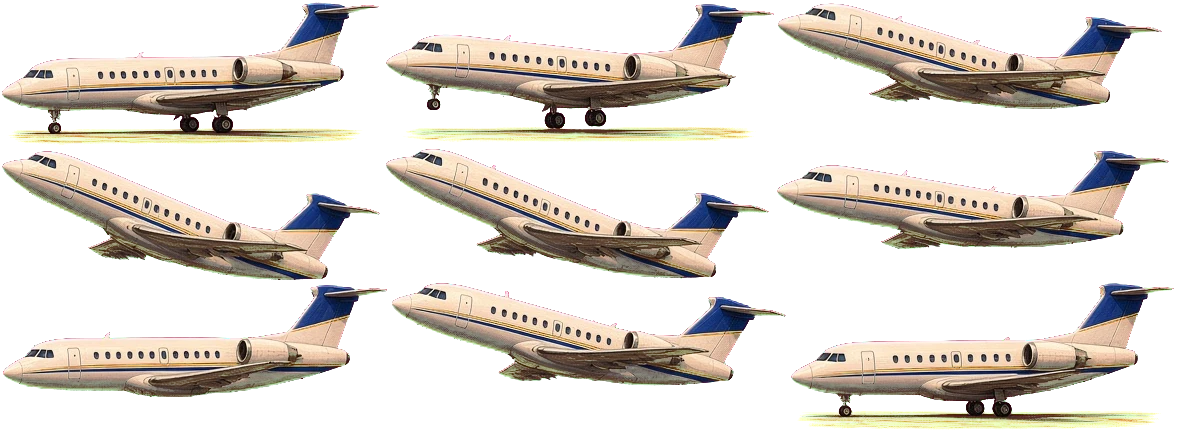
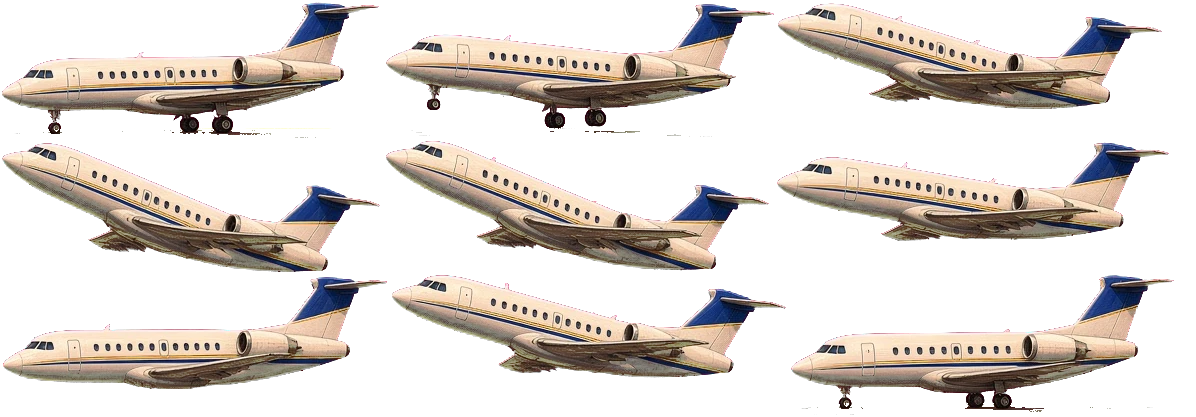
Flight animation fixes: plane lawn patch and green fringe, seamless scenery, smooth plane height, map layout (157 flight3)

diff --git a/engine/flight-art.js b/engine/flight-art.js
@@ -28,14 +28,34 @@ const fsEase=u=>{ u=Math.max(0,Math.min(1,u)); return u*u*(3-2*u); };
 function fsSmooth(on) { const was=[gfx.imageSmoothingEnabled,gfx.imageSmoothingQuality]; gfx.imageSmoothingEnabled=on; if(on) gfx.imageSmoothingQuality='high'; return was; }
 function fsRestore(was) { gfx.imageSmoothingEnabled=was[0]; gfx.imageSmoothingQuality=was[1]; }
 
-// A strip at height h, tiled sideways. Tile n covers world x [n*dw, (n+1)*dw]; odd tiles are mirrored. off = world x at the screen's left edge.
-function fsStrip(img,y,h,off) {
-  const dw=img.naturalWidth*h/img.naturalHeight; if(dw<8) return;
+// A strip at height h, tiled sideways. Tile n covers world x [n*dw, (n+1)*dw]. off = world x at the screen's left edge.
+// Skyline and foreground strips repeat un-flipped (157: flipped copies showed mirrored trees and backwards lettering) with the
+// join melted by fsSeamless; ground strips keep the mirrored repeat, because their runway runs on a slant and only a mirror joins it.
+function fsSeamless(img) {
+  let c=FLIGHT_ART.cache.get(img);
+  if(c) return c;
+  const w=img.naturalWidth,h=img.naturalHeight,ov=Math.round(w*.16),nw=w-ov;
+  c=document.createElement('canvas'); c.width=nw; c.height=h; const g=c.getContext('2d');
+  // The tail of the picture fades out while its head fades in over the same columns, so the end flows into the start.
+  const layer=(sx,fromOpaque)=>{
+    const t=document.createElement('canvas'); t.width=ov; t.height=h; const q=t.getContext('2d');
+    q.drawImage(img,sx,0,ov,h,0,0,ov,h); q.globalCompositeOperation='destination-in';
+    const gr=q.createLinearGradient(0,0,ov,0); gr.addColorStop(0,fromOpaque?'#000':'rgba(0,0,0,0)'); gr.addColorStop(1,fromOpaque?'rgba(0,0,0,0)':'#000');
+    q.fillStyle=gr; q.fillRect(0,0,ov,h); return t;
+  };
+  g.drawImage(img,ov,0,nw-ov,h,ov,0,nw-ov,h);
+  g.drawImage(layer(nw,true),0,0);
+  g.globalCompositeOperation='lighter'; g.drawImage(layer(0,false),0,0);
+  FLIGHT_ART.cache.set(img,c); return c;
+}
+function fsStrip(img,y,h,off,mirror) {
+  const src=mirror?img:fsSeamless(img),sw=mirror?img.naturalWidth:src.width,sh=mirror?img.naturalHeight:src.height;
+  const dw=sw*h/sh; if(dw<8) return;
   for(let n=Math.floor(off/dw);;n++) {
     const X=Math.floor(n*dw-off); if(X>=W) break;
     const w=Math.ceil(dw)+1;
-    if(((n%2)+2)%2) { gfx.save(); gfx.translate(X+w,0); gfx.scale(-1,1); gfx.drawImage(img,0,y,w,h); gfx.restore(); }
-    else gfx.drawImage(img,X,y,w,h);
+    if(mirror&&((n%2)+2)%2) { gfx.save(); gfx.translate(X+w,0); gfx.scale(-1,1); gfx.drawImage(src,0,y,w,h); gfx.restore(); }
+    else gfx.drawImage(src,X,y,w,h);
   }
 }
 // A sky square covering the top region [0,regionH]: the sun is moved to targetY, as far as the picture's edges allow.
@@ -101,6 +121,11 @@ function fsPlane(i,px,py,s,facing,ang) {
   gfx.drawImage(FLIGHT_ART.imgs.plane,P.x,P.y,P.w,P.h,-P.ax,-P.ay,P.w,P.h);
   gfx.restore();
 }
+// Each pose has its own wheel-bottom height, so a plain swap of poses made the plane hop. The height eases from pose to pose instead.
+function fsBot(F,target,dtf) {
+  if(F.botS==null||F.t<.05) return target;
+  return F.botS+(target-F.botS)*(1-Math.pow(.88,dtf));
+}
 function flightPaintedSide(F,time) {
   if(!flightArtReady()) return false;
   const M=FLIGHT_ART_META,I=FLIGHT_ART.imgs;
@@ -114,7 +139,8 @@ function flightPaintedSide(F,time) {
   // Speed: the scenery slides under the plane while it rolls, then slows as it climbs away (the old scroll rule, in screen units).
   const speed=land?(t<2.6?60:Math.max(0,60*(1-(t-2.6)/1.4))):Math.min(70,t*40);
   const S=Math.max(2,Math.min(5,Math.round(W/140)));
-  const scroll=(F.scroll=(F.scroll||0)+speed*.016*(F.last!=null?Math.min(3,(time-F.last)*60):1)); F.last=time;
+  const dtf=F.last!=null?Math.min(3,(time-F.last)*60):1;
+  const scroll=(F.scroll=(F.scroll||0)+speed*.016*dtf); F.last=time;
   const drift=-facing*scroll*S;                   // world x at the screen's left edge is -drift (times the layer's speed)
   // Sky, with the sun put just above the skyline (LA, a low sunset) or high (Long Island).
   fsSky(I['sky'+K],M.sun[inLA?'la':'le'],gy+8,inLA?gy*.78:gy*.4);
@@ -122,17 +148,17 @@ function flightPaintedSide(F,time) {
   const skImg=I['skyline'+K],skH=Math.round(Math.max(H*(inLA?.31:.27),W*.17*(inLA?1.25:1)));
   fsStrip(skImg,gy-skH+4,skH,-drift*.3);
   // Ground, then the plane's shadow and the plane.
-  fsStrip(I['ground'+K],gy,gh,-drift);
+  fsStrip(I['ground'+K],gy,gh,-drift,true);
   const L=Math.min(W*.6,H*.8,560),s=L/M.plane[0].w;
   let px=W/2,py,frame,alt;
   if(!land) {
     const lift=t<1.7?0:Math.pow((t-1.7)/2.3,1.4); alt=lift;
     frame=t<1.45?0:t<1.95?1:t<2.75?2:3;
-    py=yr-M.plane[0].bot*s-lift*H*.34; px+=facing*lift*W*.10;
+    F.botS=fsBot(F,M.plane[frame].bot,dtf); py=yr-F.botS*s-lift*H*.34; px+=facing*lift*W*.10;
   } else {
     const k=Math.min(1,t/2.6),e=1-Math.pow(1-k,2); alt=1-e;
     frame=t<.8?5:t<1.7?6:t<2.6?7:8;
-    py=yr-M.plane[8].bot*s-(1-e)*H*.30; px-=facing*(1-e)*W*.14;
+    F.botS=fsBot(F,M.plane[frame].bot,dtf); py=yr-F.botS*s-(1-e)*H*.30; px-=facing*(1-e)*W*.14;
   }
   gfx.globalAlpha=.3; ellipse(px,yr+s*4,L*.46*(1-.35*Math.min(1,alt)),L*.035,'#0a0a14'); gfx.globalAlpha=1;
   fsPlane(frame,px,py,s,facing,0);
@@ -159,7 +185,7 @@ function fsCurve(a,b,u,lift) {
 function flightPaintedMap(F,time) {
   if(!flightArtReady()) return false;
   const M=FLIGHT_ART_META,I=FLIGHT_ART.imgs,mp=M.map,MW=mp.w,MH=mp.h;
-  const reserve=(layout.landscape?162:300)/scale,top=safeTop+4,availH=Math.max(60,H-top-reserve);
+  const reserve=(layout.landscape?162:200)/scale,top=safeTop+4,availH=Math.max(60,H-top-reserve);
   const sc=Math.min(W/MW,availH/MH),dw=Math.round(MW*sc),dh=Math.round(MH*sc);
   const ox=Math.round((W-dw)/2),oy=Math.round(top+(availH-dh)/2);
   const was=fsSmooth(true);

diff --git a/data/flight-art.js b/data/flight-art.js
@@ -1,4 +1,4 @@
 'use strict';
 // data/flight-art.js: GENERATED by tools/sprite-bake/bake_flight_lib.py from the approved Art Library pictures. Do not edit by hand.
 // Sizes and anchors for the painted flight scene (art/flight/*.webp). Drawn by engine/flight-art.js.
-const FLIGHT_ART_META={"v":"20261103","files":{"cabin":"cabin.webp","skyLe":"sky-le.webp","skyLa":"sky-la.webp","skylineLe":"skyline-le.webp","skylineLa":"skyline-la.webp","foreLe":"fore-le.webp","foreLa":"fore-la.webp","groundLe":"ground-le.webp","groundLa":"ground-la.webp","plane":"plane.webp","props":"mapprops.webp","map":"usmap.webp"},"size":{"cabin":[1024,1024],"skyLe":[1024,1024],"skyLa":[1024,1024],"skylineLe":[1280,140],"skylineLa":[1280,622],"foreLe":[1280,211],"foreLa":[1280,368],"groundLe":[1280,700],"groundLa":[1280,684],"plane":[1196,432],"props":[1100,484],"map":[1248,832]},"sun":{"le":[0.504,0.305],"la":[0.506,0.766]},"runway":{"le":[0.45,0.6],"la":[0.45,0.6]},"plane":[{"ax":190,"ay":77.05529193315454,"sl":380,"w":380,"h":144,"bot":66.94470806684546,"x":2,"y":2},{"ax":196,"ay":67.4039648022656,"sl":392,"w":392,"h":140,"bot":72.5960351977344,"x":384,"y":2},{"ax":192,"ay":56.83717487840981,"sl":384,"w":384,"h":108,"bot":51.16282512159019,"x":778,"y":2},{"ax":190,"ay":73.45777351247601,"sl":380,"w":380,"h":132,"bot":58.54222648752399,"x":2,"y":148},{"ax":194,"ay":70.97705197993382,"sl":388,"w":388,"h":132,"bot":61.02294802006618,"x":384,"y":148},{"ax":198,"ay":56.972827804107425,"sl":396,"w":396,"h":104,"bot":47.027172195892575,"x":774,"y":148},{"ax":194,"ay":73.69800788091068,"sl":388,"w":388,"h":116,"bot":42.30199211908932,"x":2,"y":282},{"ax":198,"ay":55.017667472920394,"sl":396,"w":396,"h":104,"bot":48.982332527079606,"x":392,"y":282},{"ax":192,"ay":80.16011875309253,"sl":384,"w":384,"h":148,"bot":67.83988124690747,"x":790,"y":282}],"props":{"pinHome":[2,2,92,140],"pinAway":[96,2,92,140],"dot":[190,2,68,72],"star":[260,2,128,124],"planeLvl":[390,2,252,204],"planeB1":[644,2,212,176],"planeB2":[858,2,192,180],"smoke":[2,208,324,160],"puff":[328,208,72,48],"cloudA":[402,208,224,128],"cloudB":[628,208,180,132],"cloudC":[810,208,144,140],"cloudD":[2,370,172,112],"cloudE":[176,370,132,88],"cloudF":[310,370,96,64]},"map":{"w":1248,"h":832,"le":[1139,335],"la":[95,470],"ocean":"#014991","wave":"#1068bf"}};
+const FLIGHT_ART_META={"v":"20261104","files":{"cabin":"cabin.webp","skyLe":"sky-le.webp","skyLa":"sky-la.webp","skylineLe":"skyline-le.webp","skylineLa":"skyline-la.webp","foreLe":"fore-le.webp","foreLa":"fore-la.webp","groundLe":"ground-le.webp","groundLa":"ground-la.webp","plane":"plane.webp","props":"mapprops.webp","map":"usmap.webp"},"size":{"cabin":[1024,1024],"skyLe":[1024,1024],"skyLa":[1024,1024],"skylineLe":[1280,140],"skylineLa":[1280,622],"foreLe":[1280,211],"foreLa":[1280,368],"groundLe":[1280,700],"groundLa":[1280,684],"plane":[1196,417],"props":[1100,484],"map":[1248,832]},"sun":{"le":[0.504,0.305],"la":[0.506,0.766]},"runway":{"le":[0.45,0.6],"la":[0.45,0.6]},"plane":[{"ax":190,"ay":75.46681533397047,"sl":380,"w":380,"h":136,"bot":60.53318466602953,"x":2,"y":2},{"ax":196,"ay":66.08893709327549,"sl":392,"w":392,"h":135,"bot":68.91106290672451,"x":384,"y":2},{"ax":192,"ay":56.83717487840981,"sl":384,"w":384,"h":108,"bot":51.16282512159019,"x":778,"y":2},{"ax":190,"ay":73.45777351247601,"sl":380,"w":380,"h":132,"bot":58.54222648752399,"x":2,"y":140},{"ax":194,"ay":70.97705197993382,"sl":388,"w":388,"h":132,"bot":61.02294802006618,"x":384,"y":140},{"ax":198,"ay":56.972827804107425,"sl":396,"w":396,"h":104,"bot":47.027172195892575,"x":774,"y":140},{"ax":194,"ay":73.69800788091068,"sl":388,"w":388,"h":116,"bot":42.30199211908932,"x":2,"y":274},{"ax":198,"ay":55.017667472920394,"sl":396,"w":396,"h":104,"bot":48.982332527079606,"x":392,"y":274},{"ax":192,"ay":78.57334963325184,"sl":384,"w":384,"h":141,"bot":62.42665036674816,"x":790,"y":274}],"props":{"pinHome":[2,2,92,140],"pinAway":[96,2,92,140],"dot":[190,2,68,72],"star":[260,2,128,124],"planeLvl":[390,2,252,204],"planeB1":[644,2,212,176],"planeB2":[858,2,192,180],"smoke":[2,208,324,160],"puff":[328,208,72,48],"cloudA":[402,208,224,128],"cloudB":[628,208,180,132],"cloudC":[810,208,144,140],"cloudD":[2,370,172,112],"cloudE":[176,370,132,88],"cloudF":[310,370,96,64]},"map":{"w":1248,"h":832,"le":[1139,335],"la":[95,470],"ocean":"#014991","wave":"#1068bf"}};

diff --git a/flight-preview.html b/flight-preview.html
@@ -56,7 +56,7 @@ function rect(x,y,w,h,color){ gfx.fillStyle=color; gfx.fillRect(Math.round(x),Ma
 function ellipse(x,y,rx,ry,color){ gfx.fillStyle=color; gfx.beginPath(); gfx.ellipse(x,y,rx,ry,0,0,Math.PI*2); gfx.fill(); }
 </script>
 <script src="data/font.js"></script>
-<script src="engine/flight-art.js?v=fl2"></script>
+<script src="engine/flight-art.js?v=flight3"></script>
 <script>
 'use strict';
 FLIGHT_ART.loading=true;   // stop the game's own loader (it would read art/flight/ on a timer); this page loads the art itself
@@ -173,10 +173,28 @@ function packAtlas(parts,width){ let x=2,y=2,rowH=0; const pos=[]; for(const p o
   const c=document.createElement('canvas'); c.width=width; c.height=y+rowH+2; const g=c.getContext('2d'); parts.forEach((p,i)=>g.drawImage(p,pos[i][0],pos[i][1])); return {c,pos}; }
 // The engine draws the plane sheet nose-left and mirrors it to fly left to right; the Library sheet paints the nose right (156 flight2).
 function mirrorX(c){ const o=document.createElement('canvas'); o.width=c.width; o.height=c.height; const g=o.getContext('2d'); g.translate(c.width,0); g.scale(-1,1); g.drawImage(c,0,0); return o; }
+// One plane pose, cleaned (CHANGES 157): the plane has no green paint, so any green left on a keyed edge is pulled back to the
+// larger of red and blue; and the lawn patch the generator painted under the wheels (a wide run of rows at the very bottom,
+// with the narrow gear rows right above it) is cut off, so the wheels end the picture. Nothing is moved, scaled or redrawn.
+function cleanPlane(c){
+  const w=c.width,h=c.height,g=c.getContext('2d',{willReadFrequently:true}),id=g.getImageData(0,0,w,h),d=id.data;
+  for(let i=0;i<d.length;i+=4){ if(d[i+3]){ const m=Math.max(d[i],d[i+2]); if(d[i+1]>m) d[i+1]=m; } }
+  const cnt=y=>{ let n=0; for(let x=0;x<w;x++) if(d[(y*w+x)*4+3]>20) n++; return n; };
+  let b=h; while(b>0&&cnt(b-1)<w*.4) b--;           // bottom of the wide band at the very bottom
+  let t=b; while(t>0&&cnt(t-1)>=w*.4) t--;           // its top
+  if(b-t>=5&&b-t<h*.2&&t>9&&cnt(t-8)<w*.3){          // short, with narrow gear rows above it: a lawn patch, not a belly
+    for(let y=t;y<h;y++) for(let x=0;x<w;x++){ const i=(y*w+x)*4; if(d[i+3]&&!((d[i]+d[i+1]+d[i+2])/3<100&&d[i]-d[i+2]<=45)) d[i+3]=0; }   // clear the patch's paint, keep the dark wheels
+    g.putImageData(id,0,0);
+    let e=h; while(e>t&&cnt(e-1)<3) e--;
+    return cropRows(c,0,e);
+  }
+  g.putImageData(id,0,0);
+  return c;
+}
 function prepPlane(im){
   const {c,id}=keySheet(im),w=c.width,h=c.height,parts=[],info=[];
   for(let i=0;i<9;i++){ const r=(i/3)|0,cc=i%3,x0=Math.round(cc*w/3),y0=Math.round(r*h/3),x1=Math.round((cc+1)*w/3),y1=Math.round((r+1)*h/3);
-    const b=shapes(id,w,h,x0,y0,x1,y1,2)[0]||{x:x0,y:y0,w:x1-x0,h:y1-y0}; const p=mirrorX(cropRect(c,b.x,b.y,b.w,b.h)); parts.push(p);
+    const b=shapes(id,w,h,x0,y0,x1,y1,2)[0]||{x:x0,y:y0,w:x1-x0,h:y1-y0}; const p=mirrorX(cleanPlane(cropRect(c,b.x,b.y,b.w,b.h))); parts.push(p);
     // Anchor: the middle of the plane sideways; up and down, the middle of its painted body (centre of the opaque pixels).
     const pd=px(p).data; let sy=0,n=0; for(let y=0;y<p.height;y++) for(let x=0;x<p.width;x+=2) if(pd[(y*p.width+x)*4+3]>200){ sy+=y; n++; }
     const ay=n?sy/n:p.height/2; info.push({ax:p.width/2,ay,sl:p.width,w:p.width,h:p.height,bot:p.height-ay}); }

diff --git a/index.html b/index.html
@@ -1518,8 +1518,8 @@ document.addEventListener('click',function(e){var n=e.target.closest&&e.target.c
 <script src="engine/plate.js?v=row3"></script>
 <script src="engine/draw.js?v=scroll1"></script>
 <script src="engine/intro.js?v=size3"></script>
-<script src="data/flight-art.js?v=flight2"></script>
-<script src="engine/flight-art.js?v=fl2"></script>
+<script src="data/flight-art.js?v=flight3"></script>
+<script src="engine/flight-art.js?v=flight3"></script>
 <script src="engine/travel.js?v=travel1"></script>
 <script src="engine/nara.js?v=freeze1"></script>
 <script src="engine/story.js?v=area2"></script>
@@ -1564,7 +1564,7 @@ document.addEventListener('click',function(e){var n=e.target.closest&&e.target.c
 <script src="engine/local-clips.js?v=nobake1"></script>
 <script src="engine/dialog-auto.js"></script>
 <script src="engine/tapwalk.js?v=wind1"></script><!-- tap to walk -->
-<script src="engine/main.js?v=gwalk1"></script>
+<script src="engine/main.js?v=flight3"></script>
 <script src="engine/music.js"></script>
 <script src="data/songs.js"></script>
 <script src="engine/music-clips.js?v=music1"></script>

diff --git a/engine/main.js b/engine/main.js
@@ -83,7 +83,7 @@ startSplash();
 (function(){
   const sp=document.getElementById('splash'); if(!sp) return;
   const d=document.createElement('div');
-  d.textContent='build gwalk1';
+  d.textContent='build flight3';
   d.style.cssText='position:absolute;left:8px;bottom:4px;font:10px monospace;color:#fff;opacity:.45;pointer-events:none;z-index:50';
   sp.appendChild(d);
 })();

diff --git a/docs/CHANGES.md b/docs/CHANGES.md
@@ -1,3 +1,12 @@
+## 2026-11-04 (158): Flight animation fixes (`flight3`)
+- Tom (07:39): "Watch the current plane animation - so many issues". Watched every phase, both directions, portrait and landscape.
+- Plane: the generator painted a lawn patch under the wheels on poses 0, 1 and 8 (a flat green-yellow slab floating under the plane, even in the air) and the key left green on the edges. flight-preview.html `cleanPlane` (used by the install bake) clears green spill and the patch (dark wheels kept), then crops. No warping, no pose or head edits. plane.webp re-baked (v 20261104).
+- Scenery: skyline and foreground strips were tiled with every second copy flipped (mirrored trees, backwards lettering). engine/flight-art.js `fsSeamless` now repeats them un-flipped with a soft blend over 16 percent of the width. Ground strips keep the mirror (the LA runway is a slanted perspective picture and only a mirror joins it).
+- Plane height: each pose has its own wheel-bottom, so pose swaps made the plane hop (about 11 px in the landing flare). `fsBot` eases the height between poses.
+- Map screen: portrait reserve 300 to 200, so the map sits between the top bar and the D-pad instead of high with an empty block under it.
+- NOT fixed (needs new pictures in the Art Library): LA ground v2 is a perspective view with sky, skyline, palms and a garbled hangar sign, so the plane lands beside the runway; LA skyline v5 is a full 16:9 panorama with its own sky. Cause found in the prompts (every Flight prompt attaches style_key_v1.png, which holds four people, a school and a plaza; camera wording says "from the side and above at an angle"; sizes like 2172 x 391 cannot be delivered, the generator returns 1280 x 720). Plan in claude/next.md.
+- Tests: tools/flight_test.py both (ALL OK, frames looked at), tag_check ok, smoke.
+
 ## 2026-11-04 (157): Art Library test entry: Grace walk as one 3 x 3 sheet built like Tom's (`gsheet3`)
 - Tom (07:50): "let's do a new test in the art Library to replicate what worked for Tom. The hero image as a reference and then this prolly." New entry `grace-walk-sheet-test` (Characters > Grace, "Grace walk TEST"), 1:1, one reference: `grace-hero-fresh-style-v4.png`. Prompt is `claude/tom-walk-sheet-prompt.txt` with only Grace's details swapped in (9 numbered frames, steps B written as "mirror of 2" and "mirror of 5", viewer's-side leg wording, magenta background), and the five ART STYLE bullets updated to Grace's current style (richly detailed hand-painted illustration, jewel-toned colors, crisp silhouettes, not pixel art, not 16-bit). No head size target in the prompt (CLAUDE.md rule). No face photo attached (public repo).
 - Files: `tools/art-library/prompts/grace-walk-sheet-test.txt` (new), `tools/art-library/make-prompts.js` (entry added), `data/art-prompts.json` (entry inserted by hand after `grace-walk-side`, nothing else touched; make-prompts.js was not run). The three older `grace-walk-*` entries are unchanged.
